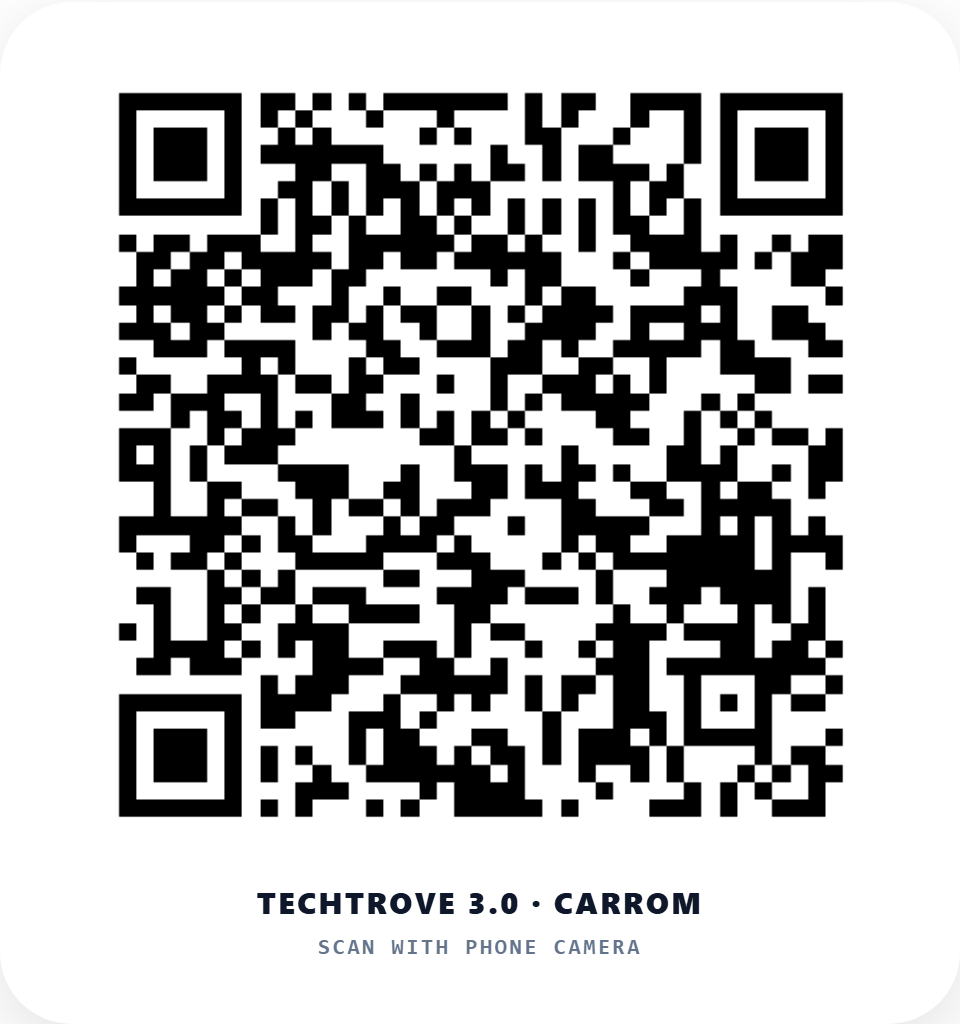
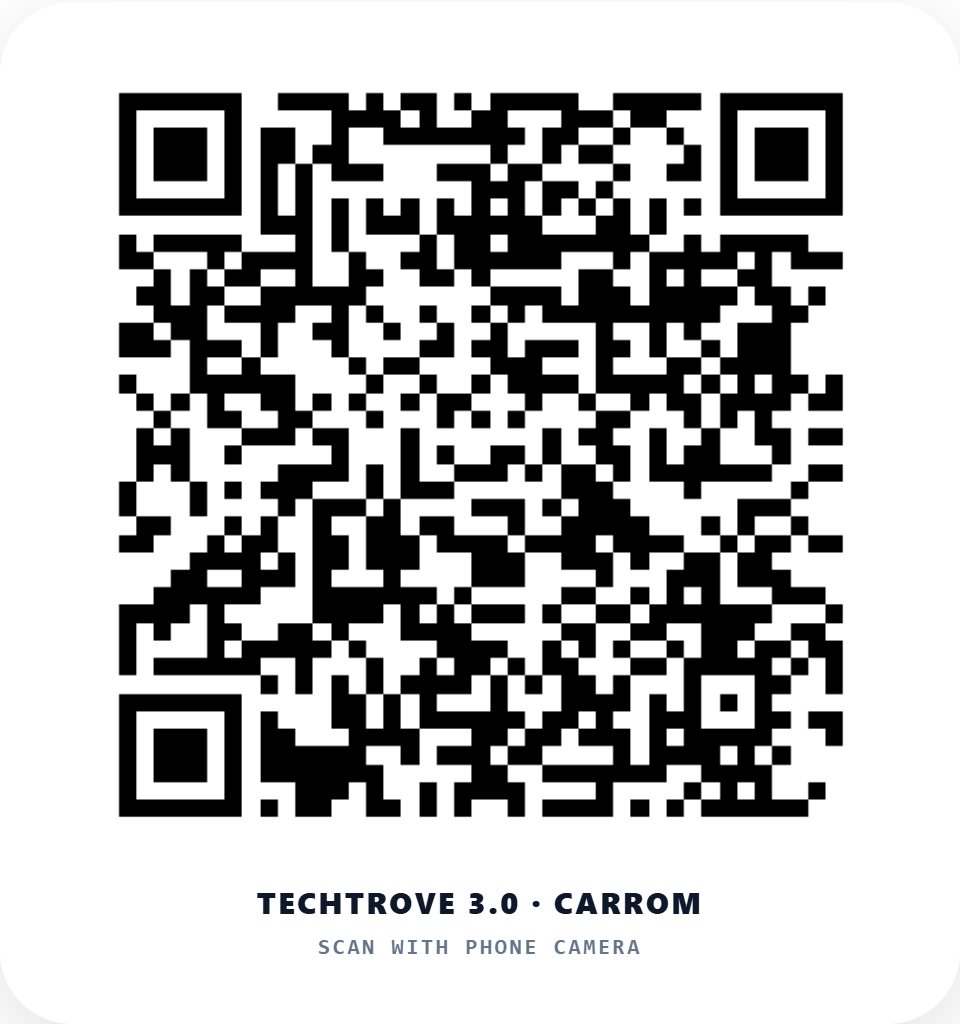
fix(checkin): sync attendance stats with get_attendance_hub_stats RPC, realtime listener, and unified sports QR cards

Changed region(s): [[0.125, 0.0625, 0.875, 0.8125]]

diff --git a/src/lib/coordinatorApi.ts b/src/lib/coordinatorApi.ts
@@ -613,29 +613,53 @@ export const CANONICAL_EVENT_TOKENS: Record<string, string> = {
   "sports-unified-master": UNIFIED_SPORTS_TOKEN,
   // Tech Events
   "hackathon": "c2d785c6556130288b23bc5930e0c897",
+  "tech-hackathon": "c2d785c6556130288b23bc5930e0c897",
   "debugging": "290956874150306ca19811783dc6e939",
+  "tech-debugging": "290956874150306ca19811783dc6e939",
   "paper-presentation": "a40b6e47c70ce8a2da3cb7868cc01327",
+  "tech-paper-presentation": "a40b6e47c70ce8a2da3cb7868cc01327",
   "tech-maze": "d343f64181baadd8c18d1445e5f5dcc9",
   "quiz": "598f2afc0c67c72c24c7313e0734daba",
+  "tech-quiz": "598f2afc0c67c72c24c7313e0734daba",
+  "logo-making": "487449ffe383208b37ebb6ea11a0586d",
+  "tech-logo-making": "487449ffe383208b37ebb6ea11a0586d",
   // Non-Tech Events
   "dance": "048c0b5cea0eb38ab212c9897ad107ff",
+  "nontech-dance": "048c0b5cea0eb38ab212c9897ad107ff",
   "singing": "3b872130193c85708506bc2d8bbc1fb0",
+  "nontech-singing": "3b872130193c85708506bc2d8bbc1fb0",
   "gaming": "20575a9e9755fc64694258c938f8c1dc",
+  "nontech-mobile-gaming": "20575a9e9755fc64694258c938f8c1dc",
   "ramp-walk": "3cc0ccc344defb6d48a3b5b59ec6bc88",
+  "nontech-ramp-walk": "3cc0ccc344defb6d48a3b5b59ec6bc88",
   "treasure-hunt": "42afcf562a175493cf013832357b9b48",
+  "nontech-treasure-hunt": "42afcf562a175493cf013832357b9b48",
   "connexion": "4582ab70dce31f3dc148e2893284532e",
+  "nontech-connexion": "4582ab70dce31f3dc148e2893284532e",
   "adaptune": "b4b2fec065183af2ea1afaefa2a1d1ea",
+  "nontech-adaptune": "b4b2fec065183af2ea1afaefa2a1d1ea",
   "tunetopia": "7df7ca111c8fb6ebc37bed39fa5bf19e",
-  "logo-making": "487449ffe383208b37ebb6ea11a0586d",
-  // Individual Sports
-  "cricket": "42f72b973a4435f9aef271a8fe028992",
-  "football": "ab30b6937266257e63ba609931840c68",
-  "volleyball": "1aa8125cc6422b40182407d3cb802c2d",
-  "kabaddi": "a4589e9420537421ae5343bbff9bcf40",
-  "sport-khokho-girls": "18631d75d480ce4c8f0979a200d3e08e",
-  "sport-throwball-girls": "87cb2c00f1f675db80174d5af7caaf54",
-  "sport-chess-girls": "e08dfc0be793e4b9d70dc9aa9beca60b",
-  "sport-carrom-girls": "6fb1e0984a6a4ba1ede4f6459869a0f4",
+  "nontech-tunetopia": "7df7ca111c8fb6ebc37bed39fa5bf19e",
+  // Sports Events (Unified token + specific IDs)
+  "cricket": UNIFIED_SPORTS_TOKEN,
+  "sport-cricket": UNIFIED_SPORTS_TOKEN,
+  "football": UNIFIED_SPORTS_TOKEN,
+  "sport-football": UNIFIED_SPORTS_TOKEN,
+  "volleyball": UNIFIED_SPORTS_TOKEN,
+  "sport-volleyball": UNIFIED_SPORTS_TOKEN,
+  "kabaddi": UNIFIED_SPORTS_TOKEN,
+  "sport-kabaddi": UNIFIED_SPORTS_TOKEN,
+  "kho-kho": UNIFIED_SPORTS_TOKEN,
+  "sport-khokho": UNIFIED_SPORTS_TOKEN,
+  "sport-khokho-girls": UNIFIED_SPORTS_TOKEN,
+  "throwball": UNIFIED_SPORTS_TOKEN,
+  "sport-throwball-girls": UNIFIED_SPORTS_TOKEN,
+  "chess": UNIFIED_SPORTS_TOKEN,
+  "sport-chess": UNIFIED_SPORTS_TOKEN,
+  "sport-chess-girls": UNIFIED_SPORTS_TOKEN,
+  "carrom": UNIFIED_SPORTS_TOKEN,
+  "sport-carrom": UNIFIED_SPORTS_TOKEN,
+  "sport-carrom-girls": UNIFIED_SPORTS_TOKEN,
 };
 
 export const CANONICAL_TOKEN_TO_EVENT: Record<string, string> = Object.entries(
@@ -676,27 +700,70 @@ export async function syncUnifiedSportsToken(token: string, sportsEvents: TechEv
 
 /**
  * Aggregates live attendee and registration counts per event.
+ * Uses get_attendance_hub_stats RPC for instant DB-level accuracy with fallback.
  */
 export async function getAttendanceEventStats(): Promise<
   Record<string, { total: number; attended: number }>
 > {
   const stats: Record<string, { total: number; attended: number }> = {};
-  try {
-    const { data: members, error } = await supabase
-      .from("registration_members")
-      .select("event_id, attended");
 
-    if (!error && members) {
-      for (const m of members) {
+  try {
+    // 1. Try secure RPC first
+    // eslint-disable-next-line @typescript-eslint/no-explicit-any
+    const { data: rpcStats, error: rpcErr } = await (supabase.rpc as any)("get_attendance_hub_stats");
+    if (!rpcErr && rpcStats && typeof rpcStats === "object") {
+      for (const [key, val] of Object.entries(rpcStats as Record<string, { total: number; attended: number }>)) {
+        stats[key] = {
+          total: Number(val?.total) || 0,
+          attended: Number(val?.attended) || 0,
+        };
+        // Also map without prefix for UI matching
+        const shortKey = key.replace(/^(tech-|nontech-|sport-)/, "");
+        if (shortKey !== key && !stats[shortKey]) {
+          stats[shortKey] = stats[key];
+        }
+      }
+      return stats;
+    }
+  } catch {
+    // Fall back to direct queries below
+  }
+
+  try {
+    // 2. Direct fallback querying attendance and registration_members
+    const [attRes, memRes] = await Promise.all([
+      supabase.from("attendance").select("event_id, participant_email"),
+      supabase.from("registration_members").select("event_id, attended"),
+    ]);
+
+    // Count distinct attended emails per event from attendance table
+    const attendedSets: Record<string, Set<string>> = {};
+    if (attRes.data) {
+      for (const a of attRes.data) {
+        if (!a.event_id) continue;
+        if (!attendedSets[a.event_id]) attendedSets[a.event_id] = new Set();
+        if (a.participant_email) attendedSets[a.event_id].add(a.participant_email.toLowerCase());
+      }
+    }
+
+    if (memRes.data) {
+      for (const m of memRes.data) {
         if (!m.event_id) continue;
         if (!stats[m.event_id]) stats[m.event_id] = { total: 0, attended: 0 };
         stats[m.event_id].total++;
         if (m.attended) stats[m.event_id].attended++;
       }
     }
+
+    // Merge attendance table counts if greater
+    for (const [evId, emailSet] of Object.entries(attendedSets)) {
+      if (!stats[evId]) stats[evId] = { total: emailSet.size, attended: emailSet.size };
+      else stats[evId].attended = Math.max(stats[evId].attended, emailSet.size);
+    }
   } catch {
     // Graceful fallback
   }
+
   return stats;
 }
 

diff --git a/src/pages/admin/AdminCheckinPage.tsx b/src/pages/admin/AdminCheckinPage.tsx
@@ -25,6 +25,7 @@ import {
 } from "lucide-react";
 import QRCode from "qrcode";
 import { useAllEvents } from "../../lib/useEvents";
+import { supabase } from "../../lib/supabase";
 import type { TechEvent } from "../../data/techtrove";
 import {
   useCheckinMembers,
@@ -63,28 +64,59 @@ interface EventQrItem {
 }
 
 const STATIC_QR_MAP: Record<string, string> = {
+  // Master Unified Sports Pass
   "sports-unified-master": "/checkin%20qr's/sports-pass.png",
+  
+  // Technical Events
   "hackathon": "/checkin%20qr's/hackathon.png",
+  "tech-hackathon": "/checkin%20qr's/hackathon.png",
   "debugging": "/checkin%20qr's/debugging.png",
+  "tech-debugging": "/checkin%20qr's/debugging.png",
   "paper-presentation": "/checkin%20qr's/paper-presentation.png",
+  "tech-paper-presentation": "/checkin%20qr's/paper-presentation.png",
   "tech-maze": "/checkin%20qr's/tech-maze.png",
   "quiz": "/checkin%20qr's/quiz.png",
-  "dance": "/checkin%20qr's/dance.png",
-  "singing": "/checkin%20qr's/singing.png",
-  "gaming": "/checkin%20qr's/gaming.png",
-  "ramp-walk": "/checkin%20qr's/ramp-walk.png",
-  "treasure-hunt": "/checkin%20qr's/treasure-hunt.png",
-  "connexion": "/checkin%20qr's/connexion.png",
-  "adaptune": "/checkin%20qr's/adaptune.png",
-  "tunetopia": "/checkin%20qr's/tunetopia.png",
+  "tech-quiz": "/checkin%20qr's/quiz.png",
   "logo-making": "/checkin%20qr's/logo-making.png",
+  "tech-logo-making": "/checkin%20qr's/logo-making.png",
+
+  // Non-Technical Events
+  "dance": "/checkin%20qr's/dance.png",
+  "nontech-dance": "/checkin%20qr's/dance.png",
+  "singing": "/checkin%20qr's/singing.png",
+  "nontech-singing": "/checkin%20qr's/singing.png",
+  "gaming": "/checkin%20qr's/gaming.png",
+  "nontech-mobile-gaming": "/checkin%20qr's/gaming.png",
+  "ramp-walk": "/checkin%20qr's/ramp-walk.png",
+  "nontech-ramp-walk": "/checkin%20qr's/ramp-walk.png",
+  "treasure-hunt": "/checkin%20qr's/treasure-hunt.png",
+  "nontech-treasure-hunt": "/checkin%20qr's/treasure-hunt.png",
+  "connexion": "/checkin%20qr's/connexion.png",
+  "nontech-connexion": "/checkin%20qr's/connexion.png",
+  "adaptune": "/checkin%20qr's/adaptune.png",
+  "nontech-adaptune": "/checkin%20qr's/adaptune.png",
+  "tunetopia": "/checkin%20qr's/tunetopia.png",
+  "nontech-tunetopia": "/checkin%20qr's/tunetopia.png",
+
+  // Sports Events
   "cricket": "/checkin%20qr's/cricket.png",
+  "sport-cricket": "/checkin%20qr's/cricket.png",
   "football": "/checkin%20qr's/football.png",
+  "sport-football": "/checkin%20qr's/football.png",
   "volleyball": "/checkin%20qr's/volleyball.png",
+  "sport-volleyball": "/checkin%20qr's/volleyball.png",
   "kabaddi": "/checkin%20qr's/kabaddi.png",
+  "sport-kabaddi": "/checkin%20qr's/kabaddi.png",
+  "kho-kho": "/checkin%20qr's/kho-kho.png",
+  "sport-khokho": "/checkin%20qr's/kho-kho.png",
   "sport-khokho-girls": "/checkin%20qr's/kho-kho.png",
+  "throwball": "/checkin%20qr's/throwball.png",
   "sport-throwball-girls": "/checkin%20qr's/throwball.png",
+  "chess": "/checkin%20qr's/chess.png",
+  "sport-chess": "/checkin%20qr's/chess.png",
   "sport-chess-girls": "/checkin%20qr's/chess.png",
+  "carrom": "/checkin%20qr's/carrom.png",
+  "sport-carrom": "/checkin%20qr's/carrom.png",
   "sport-carrom-girls": "/checkin%20qr's/carrom.png",
 };
 
@@ -192,10 +224,33 @@ export function AdminCheckinPage({ viewOnly = false }: { viewOnly?: boolean } = 
     }
   }, []);
 
+  // Live realtime sync: update stats and attendee list whenever attendance or registrations change
+  useEffect(() => {
+    const channel = supabase
+      .channel("admin-checkin-attendance-stats-sync")
+      .on("postgres_changes", { event: "*", schema: "public", table: "attendance" }, () => {
+        loadStats();
+        refresh();
+      })
+      .on("postgres_changes", { event: "*", schema: "public", table: "registration_members" }, () => {
+        loadStats();
+        refresh();
+      })
+      .subscribe();
+
+    return () => {
+      supabase.removeChannel(channel);
+    };
+  }, [loadStats, refresh]);
+
   // Resolve token for an event matching the verified generated cards
   const resolveToken = useCallback((ev: TechEvent): string => {
     if (CANONICAL_EVENT_TOKENS[ev.id]) {
       return CANONICAL_EVENT_TOKENS[ev.id];
+    }
+    const cleanId = ev.id.replace(/^(tech-|nontech-|sport-)/, "");
+    if (CANONICAL_EVENT_TOKENS[cleanId]) {
+      return CANONICAL_EVENT_TOKENS[cleanId];
     }
     if (ev.attendanceToken && /^[0-9a-f]{32}$/i.test(ev.attendanceToken.trim())) {
       return ev.attendanceToken.trim().toLowerCase();

diff --git a/src/lib/checkin.ts b/src/lib/checkin.ts
@@ -208,11 +208,14 @@ export function useCheckinMembers(eventId?: string, search?: string) {
     void Promise.resolve().then(refresh);
   }, [refresh]);
 
-  // Realtime sync: reload when registration_members changes.
+  // Realtime sync: reload when registration_members or attendance changes.
   useEffect(() => {
     const channel = supabase
       .channel("admin-checkin-sync")
       .on("postgres_changes", { event: "*", schema: "public", table: "registration_members" }, () => {
+        refresh();
+      })
+      .on("postgres_changes", { event: "*", schema: "public", table: "attendance" }, () => {
         refresh();
       })
       .subscribe();
@@ -225,17 +228,17 @@ export function useCheckinMembers(eventId?: string, search?: string) {
   const players = new Map<string, PlayerGroup>();
 
   for (const m of members) {
-    const key = m.email.trim().toLowerCase();
+    const key = (m.email || m.id).trim().toLowerCase();
     const group =
       players.get(key) ?? {
         key,
         playerName: m.memberName,
         email: m.email.trim(),
         members: [],
-        attended: true,
+        attended: false,
       };
     group.members.push(m);
-    if (!m.attended) group.attended = false;
+    if (m.attended) group.attended = true;
     players.set(key, group);
   }
 
